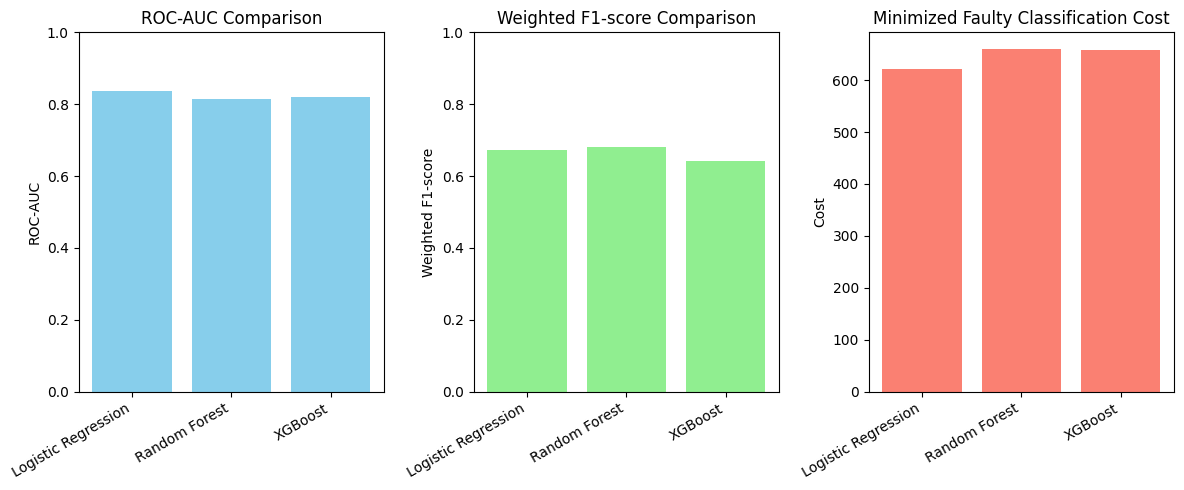
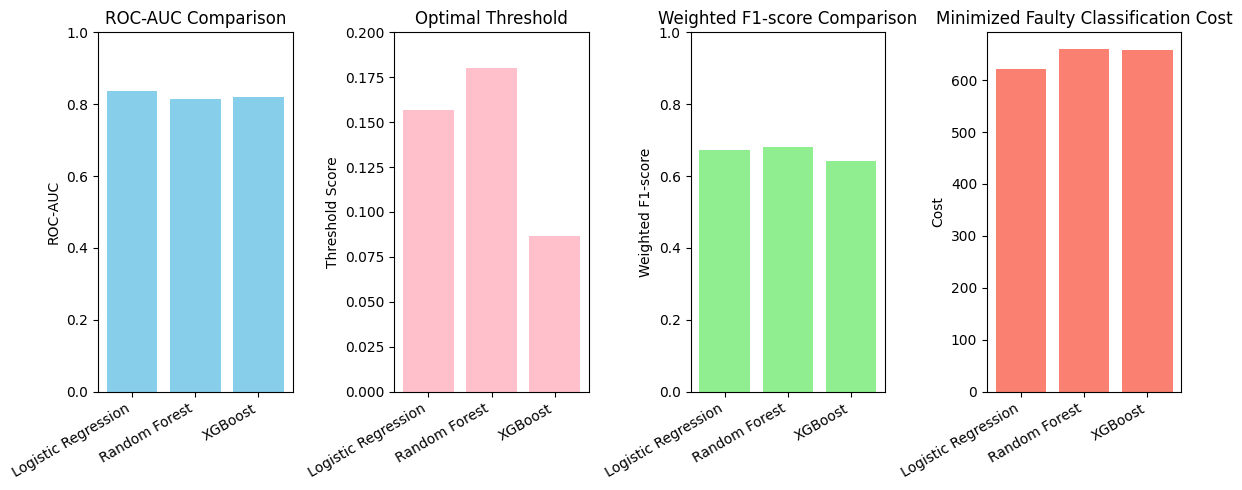
readme updated2.0

diff --git a/README.md b/README.md
@@ -1,13 +1,16 @@
-# Churn Prediction Web App
+# ML-Based Churn Prediction Web App
 
-This project is a **Customer Churn Prediction** application built with **FastAPI** for the backend and a lightweight **HTML/JavaScript frontend**. It predicts the probability that a customer will churn based on their account and usage information.
+In this project, I applied machine learning models to customer churn prediction and implemented a full-stack solution for deployment.  
+The end product is a web application that allows users to calculate the churn probability for a customer based on selected features.  
+
+This project has strong real-world applicability, as accurate churn prediction is a key component of data-driven marketing strategies and customer retention initiatives.
 
 ---
 
 ## Table of Contents
 - [Project Overview](#project-overview)
 - [Dataset](#dataset)
-- [Model](#model)
+- [Modeling](#model)
 - [Backend](#backend)
 - [Frontend](#frontend)
 - [Usage](#usage)
@@ -26,7 +29,7 @@ This project evaluates and compares the performance of three machine learning mo
 - **Random Forest**
 - **Extreme Gradient Boosting (XGBoost)**
 
-A full-stack application was built around the Logistic Regression model and deployed at:
+A full-stack application was built around the Logistic Regression model and it was deployed at:
 
 **https://churnprediction-api.onrender.com/**  
 *Note: The free Render tier may enter sleep mode when inactive, so the initial load time may be slow.*
@@ -43,7 +46,7 @@ The raw dataset includes **7,043 customers** and **21 features**.
 
 The target variable is:
 
-- **`Churn`** — indicates whether the customer discontinued the service.
+- **`Churn`** — a binary indicator indicating whether the customer discontinued the service.
 
 ### Feature Overview
 
@@ -76,14 +79,14 @@ The key findings included:
 ### Data Preprocessing
 
 The data preprocessing was performed in **/notebooks/file 02_feature_engineering.ipynb**.
-The data was surprisingly clean, only a couple of rows had to be dropped due to missing values in the feature TotalCharges. Additionally, the customerID column was dropped because it is assumed that the Id does not affect customer's behaviour.
+The data was surprisingly clean, only a couple of rows had to be dropped due to missing values in the feature TotalCharges. Additionally, the CustomerID was dropped because it carries no predictive value.
 
-The dataset contains a mix of categorical and numerical features, which required separate handling. The numerical features were normalized by applying **StandardScaler** from the scikit-learn library. The categorical features were encoded with the **one-hot encoder**, also from the scikit-learn library. The data processing pipeline was saved for later use by applying the Python's joblib libary. 
+The dataset contains a mix of categorical and numerical features, which required separate handling. The numerical features were normalized by applying **StandardScaler** from the scikit-learn library. The categorical features were encoded with the **one-hot encoder**, also from the scikit-learn library. The data processing pipeline was saved for later use by applying the Python's joblib library. 
 
-The data was split into training and testing datasets by applying the train_test_split function from sci-kit learn. The test dataset was given 20 % of the data and rest was put into the training dataset. The target (churn) and features were also separated, yielding 4 datasets in total (X_test, X_train, y_test, y_train). These datasets were saved in the \data\processed folder to be used in the modeling.
+The data was split into training and testing datasets by applying the **train_test_split** - function from scikit-learn. The test dataset was given 20 % of the data and rest was put into the training dataset. The target (churn) and features were also separated, yielding four datasets in total (X_test, X_train, y_test, y_train). These datasets were saved in the \data\processed - folder to be used in the modeling.
  
 
-## Model
+## Modeling
 
 The modeling process was conducted in **/notebooks/03_modeling.ipynb**.
 
@@ -100,16 +103,22 @@ The Logistic Regression and Random Forest models were implemented using the scik
 Each model was configured with parameters selected to balance performance, interpretability, and computational efficiency:
 
 #### **Logistic Regression**
-- **max_iter=1000** – Increased beyond the default to ensure convergence after one-hot encoding expands the feature space.  
-- **random_state=42** – Ensures reproducibility.  
+- **max_iter=1000**
+   I chose to increase max_iter beyond the default to ensure convergence after one-hot encoding expands the feature space.  
+- **random_state=42**
+   Added a random number seed to ensure reproducibility. 
 
 Logistic Regression serves as a strong, interpretable baseline model and is easy to deploy due to its simplicity.
 
 #### **Random Forest**
-- **n_estimators=200** – Provides a robust ensemble size without excessive training time.  
-- **max_depth=None** – Allows trees to grow fully, enabling the model to capture complex structures.  
-- **n_jobs=-1** – Utilizes all CPU cores for faster computation.  
-- **random_state=42** – Reproducibility.
+- **n_estimators=200** 
+   Provides a robust ensemble size without excessive training time.  
+- **max_depth=None**
+   This selection allows trees to grow fully, enabling the model to capture complex structures.  
+- **n_jobs=-1**
+   Utilizes all CPU cores for faster computation.  
+- **random_state=42**
+    Reproducibility.
 
 This configuration offers strong predictive performance while maintaining robustness against overfitting.
 
@@ -152,14 +161,37 @@ Model performance was assessed using three key metrics:
 - **Minimized Weighted Cost**  
   Captures the business impact of misclassifications using the custom cost function above. A lower value indicates better alignment with real-world priorities.
 
+## Installation
+
+The codebase was written with **Python 3.12.6**. Compatibility with other Python versions is not confirmed.
+
+### 1. Clone the repository
+
+```bash
+git clone https://github.com/yourusername/your-repo.git
+cd ChurnPrediction
+```
+
+### 2. Create a virtual environment (Recommended)
+
+```bash
+python3 -m venv venv
+.\venv\Scripts\activate # Windows
+source venv/bin/activate # Linux / macOS
+```
+
+### 3. Install Dependencies
+
+```bash
+pip install requirements-dev.txt
+```
+*Note: The requirements.txt file under /app/ is used for deployment. Do not use it for package installation.*
 
 ## Results
 
-After training the three models and evaluating them using ROC–AUC, Weighted F1 Score, and the minimized weighted cost, small differences emerged.
+After training the three models and evaluating them using ROC–AUC, Weighted F1 Score, and the minimized weighted cost, small differences emerged. The ROC-curve was also plotted for all of the models, and it can be found under `/results/`.
 
 ### Model Comparison
-
-The table below summarizes the performance of each model:
 
 | Model                | ROC–AUC  | Optimal Threshold | Weighted F1 Score | Minimized Weighted Cost |
 |----------------------|----------|-----------------|------------------|------------------------|
@@ -167,50 +199,75 @@ The table below summarizes the performance of each model:
 | Random Forest        | 0.8140   | 0.1800          | 0.6812           | 659                    |
 | XGBoost              | 0.8201   | 0.0867          | 0.6415           | 657                    |
 
+### Visual Results
+
+**Model Performance Comparison:**  
+![Model Performance](results/model_performance.png)
+
+**ROC Curves for All Models:**  
+![ROC Curves](results/roc_curves.png)
 
 ### Key Observations
 
-- **Logistic Regression** achieved the highest ROC–AUC (0.836) and the lowest minimized weighted cost (622). Its strong performance suggests that the relationship between features and churn is largely linear. In the context of this project, Logistic Regression is likely the best choice for business-oriented churn prediction due to its interpretability and efficiency.  
+- **Logistic Regression** achieved the highest ROC–AUC (0.836) and the lowest minimized weighted cost (622). Its strong performance suggests that the relationship between features and churn is largely linear. Logistic Regression is likely the best choice for business-oriented churn prediction due to its interpretability and efficiency.  
 
-- **Random Forest** reached the highest weighted F1 score (0.681) at an optimal threshold of 0.18. While it balanced precision and recall well, its minimized weighted cost (659) was higher than that of Logistic Regression, indicating slightly more business risk in terms of misclassified high-risk churners.  
+- **Random Forest** reached the highest weighted F1 score (0.681) at an optimal threshold of 0.18. While it balanced precision and recall well, its minimized weighted cost (659) was higher than Logistic Regression, indicating slightly more business risk in terms of misclassified high-risk churners.  
 
-- **XGBoost** showed competitive ROC–AUC (0.820) but had a very low optimal threshold (0.087) and a higher cost (657). This indicates that it flagged many customers as potential churners, which may increase false positives. Its comparatively lower business-aligned performance suggests that further investigation of feature interactions, hyperparameter tuning, and threshold optimization is needed to fully leverage XGBoost for this task.
-
+- **XGBoost** showed competitive ROC–AUC (0.820) but had a very low optimal threshold (0.087) and a higher cost (657). This indicates that it flagged many customers as potential churners, increasing false positives. Further investigation of feature interactions, hyperparameter tuning, and threshold optimization is recommended to fully leverage XGBoost for this task.
 
 ## Backend
 
-The backend is implemented using **FastAPI**:
+The backend is implemented using Python's **FastAPI** library and serves as the API for the churn prediction application.
 
-- Provides a `/predict` **POST endpoint**.
-- Uses **Pydantic models** to validate incoming data.
-- Loads the **preprocessing pipeline** and **trained Logistic Regression model** using `joblib`.
-- Applies **CORS middleware** to allow frontend requests.
-- Optionally serves the frontend via `StaticFiles`.
+### Key Features
 
-**Key files**:
-- `backend/main.py` – FastAPI app, endpoint, and model loading.
-- `models/` – Contains the preprocessor and trained model joblib files.
-- `requirements.txt` – Dependencies for deployment (FastAPI, Pydantic, Pandas, Numpy, Gunicorn, Uvicorn, Scikit-learn, Joblib).
+- Provides a `/predict` **POST endpoint** for predicting customer churn probability.
+- Uses **Pydantic models** to validate incoming request data.
+- Loads the **preprocessing pipeline** and **trained Logistic Regression model** with `joblib`.
+- Applies **CORS middleware** to allow requests from the frontend.
+- Serves the frontend with **StaticFiles**.
 
----
+### Key Files
+
+- `backend/main.py` – FastAPI app, endpoint definitions, and model loading.
+- `models/` – Contains the serialized preprocessor and trained model files (`.joblib`).
+- `requirements.txt` – Backend dependencies including FastAPI, Pydantic, Pandas, NumPy, Scikit-learn, Joblib, Gunicorn, and Uvicorn.
+
+### Optional: Running the Backend Locally
+
+To run the backend locally:
+
+```bash
+# Activate your virtual environment
+source venv/bin/activate   # macOS/Linux
+venv\Scripts\activate      # Windows
+
+# Start the FastAPI server
+uvicorn backend.main:app --reload
+```
 
 ## Frontend
 
-The frontend is a simple **HTML + JavaScript** interface:
+The frontend is built with **HTML and JavaScript**. It provides input fields for **all customer features** used in the model, allowing users to submit different combinations of feature values and receive the **predicted churn probability** from the backend.  
 
-- Collects all customer fields in a visually appealing form.
-- Sends a JSON payload to the backend `/predict` endpoint.
-- Displays the churn probability dynamically on the page.
-- Uses two-column layout for better readability and user experience.
+Key points:  
 
----
+- Users can interactively test different customer scenarios by changing the input values.  
+- The form dynamically sends the input data as a **JSON payload** to the backend `/predict` endpoint.  
+- The predicted churn probability is displayed immediately on the page, enabling users to quickly explore different customer risk profiles.  
 
-## Usage
+## Deployment
 
-### Running locally
+The project is deployed on **Render** using **Gunicorn** with a single worker.  
+You can access the live application here: [https://churnprediction-api.onrender.com/](https://churnprediction-api.onrender.com/)
 
-1. Create a virtual environment:
-   ```bash
-   python -m venv .venv
-   .venv\Scripts\activate  # Windows
-   source .venv/bin/activate  # Mac/Linux
+The free Render plan puts inactive apps to sleep, so the first load may take longer while the server starts.
+
+This deployment demonstrates a **full-stack implementation**, combining a FastAPI backend with a frontend interface, making the churn prediction model accessible without any local setup.
+
+## Potential Improvements
+
+While this project demonstrates effective churn prediction and deployment, it could be further strengthened by analyzing **model convergence** and **overfitting**.  
+For example, checking the convergence of the Logistic Regression model would ensure the iterative optimization reached a stable solution after one-hot encoding increased the feature space. Examining overfitting by comparing training and test performance or visualizing learning curves for Random Forest and XGBoost—could help fine-tune the models and improve generalization.  
+
+Additionally, the models were trained with basic parameter choices and **hyperparameter tuning was not extensively performed**. Exploring a wider range of parameters could potentially improve model performance and better align predictions with business objectives. Incorporating these analyses and experiments would provide deeper insights into model reliability and robustness in real-world scenarios.
